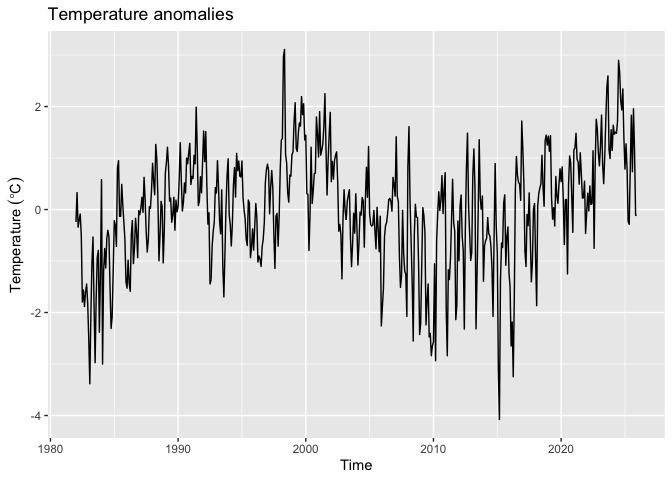
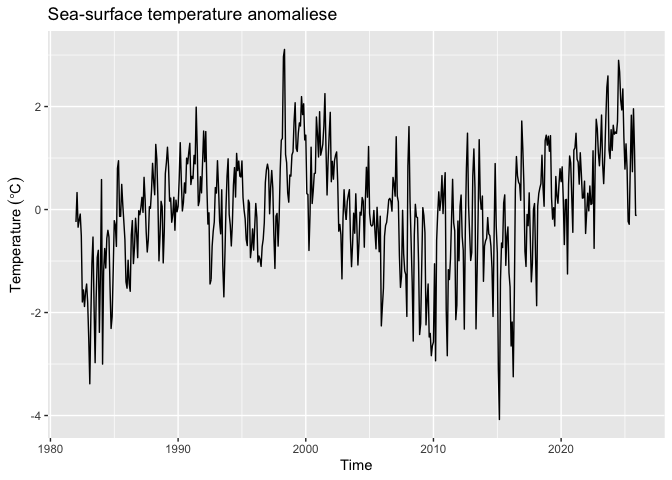
update

Changed region(s): [[0.0625, 0.0, 0.5, 0.0625]]

diff --git a/quick_tutorial.md b/quick_tutorial.md
@@ -23,6 +23,8 @@
   interval](#plotting-level-component-with-confidence-interval)
 - [Plotting drift component with confidence
   interval](#plotting-drift-component-with-confidence-interval)
+- [Handling original temperature
+  data](#handling-original-temperature-data)
 
 # Set ennvironment
 
@@ -172,19 +174,21 @@ plot(monthly_ibaraki_sst_plot)
 # Plotting time series of temperature deviation
 
 ``` r
-plot_temp_dev_obj <- ThermoSSM::plot_temp_dev(monthly_ibaraki_sst) 
+# Generate temperature anomalies
+monthly_ibaraki_sst_dev <- ThermoSSM::generate_temp_dev(monthly_ibaraki_sst)
+
+monthly_ibaraki_sst_dev_plot <- forecast::autoplot(monthly_ibaraki_sst_dev) +
+  labs(y = expression(Temperature~(degree*C)), 
+       x = "Time") +
+  ggtitle("Sea-surface temperature anomaliese")
+  
+ggsave("monthly_SST_dev_ibaraki.png",
+       plot=monthly_ibaraki_sst_dev_plot,
+       width=8,height=6)
+plot(monthly_ibaraki_sst_dev_plot)
 ```
 
 ![](quick_tutorial_files/figure-markdown_github/unnamed-chunk-8-1.png)
-
-``` r
-ggsave("monthly_SST_dev_ibaraki.png",
-       plot=plot_temp_dev_obj,
-       width=8,height=6)
-plot(plot_temp_dev_obj)
-```
-
-![](quick_tutorial_files/figure-markdown_github/unnamed-chunk-8-2.png)
 
 # Plotting seasonal pattern of monthly temperature
 
@@ -382,3 +386,129 @@ plot(plt_drift_ci)
 ```
 
 ![](quick_tutorial_files/figure-markdown_github/unnamed-chunk-15-1.png)
+
+# Handling original temperature data
+
+``` r
+##========================
+## Example 1
+# Monthly temperature data
+original_data <- data.frame(
+  Year=c(2000,2000,2000,2000,2000,2000,2000,2000,2000,2000,2000,2000),
+  Month=c(1,2,3,4,5,6,7,8,9,10,11,12),
+  Temp=   c(5.2, 6.1, 9.3, 13.5, 17.8, 21.0,24.3, 25.1, 22.0, 17.1, 11.2,7.0))
+
+head(original_data)
+```
+
+    ##   Year Month Temp
+    ## 1 2000     1  5.2
+    ## 2 2000     2  6.1
+    ## 3 2000     3  9.3
+    ## 4 2000     4 13.5
+    ## 5 2000     5 17.8
+    ## 6 2000     6 21.0
+
+``` r
+# Convert ts object
+original_ts <- ts(
+  matrix(original_data$Temp),
+  start = c(original_data$Year[1],original_data$Month[1]),
+  frequency = 12
+)
+
+# Important!!: Exe colnames() to add "Temp" name to ts object for the model 
+colnames(original_ts) <- c("Temp")
+
+frequency(original_ts)
+```
+
+    ## [1] 12
+
+``` r
+start(original_ts)
+```
+
+    ## [1] 2000    1
+
+``` r
+end(original_ts)
+```
+
+    ## [1] 2000   12
+
+``` r
+time(original_ts)
+```
+
+    ##           Jan      Feb      Mar      Apr      May      Jun      Jul      Aug
+    ## 2000 2000.000 2000.083 2000.167 2000.250 2000.333 2000.417 2000.500 2000.583
+    ##           Sep      Oct      Nov      Dec
+    ## 2000 2000.667 2000.750 2000.833 2000.917
+
+``` r
+original_ts
+```
+
+    ##       Jan  Feb  Mar  Apr  May  Jun  Jul  Aug  Sep  Oct  Nov  Dec
+    ## 2000  5.2  6.1  9.3 13.5 17.8 21.0 24.3 25.1 22.0 17.1 11.2  7.0
+
+``` r
+##========================
+## Example 2
+# loading and checking raw csv data
+input_csv <- "./data/test_data.csv"
+raw_csv <- read_csv(input_csv)
+head(raw_csv)
+```
+
+    ## # A tibble: 6 × 3
+    ##    Year Month  Temp
+    ##   <dbl> <dbl> <dbl>
+    ## 1  2002     1 -15.1
+    ## 2  2002     2 -13.3
+    ## 3  2002     3 -10.6
+    ## 4  2002     4  -0.8
+    ## 5  2002     5   3.5
+    ## 6  2002     6   6.2
+
+``` r
+# Load original csv file and then convert to monthly ts object 
+test_ts <- ThermoSSM::monthly_csv2ts(input_csv)
+head(test_ts)
+```
+
+    ##        Jan   Feb   Mar   Apr   May   Jun
+    ## 2002 -15.1 -13.3 -10.6  -0.8   3.5   6.2
+
+``` r
+frequency(test_ts)
+```
+
+    ## [1] 12
+
+``` r
+start(test_ts)
+```
+
+    ## [1] 2002    1
+
+``` r
+end(test_ts)
+```
+
+    ## [1] 2025   12
+
+``` r
+cycle(test_ts) %>% head()
+```
+
+    ##      Jan Feb Mar Apr May Jun
+    ## 2002   1   2   3   4   5   6
+
+``` r
+time(test_ts) %>% head()
+```
+
+    ##           Jan      Feb      Mar      Apr      May      Jun
+    ## 2002 2002.000 2002.083 2002.167 2002.250 2002.333 2002.417

diff --git a/README.md b/README.md
@@ -1,8 +1,8 @@
 # ThermoSSM
 
-- R package for linear Gaussian state-space analysis of temperature time series.  
-Main Parts of the implementation in this package were adapted from the supplementary Rcode
-provided by Baba (2024), available on GitHub: https://github.com/logics-of-blue/sea-temperature-trend-jogashima
+- R package for state-space analysis of temperature time series.  
+The implementation is based on linear Gaussian state-space models and makes use of Kalman filtering and smoothing.  
+Main parts of the implementation were adapted from the supplementary code provided in Baba et al. (2024), available on GitHub: https://github.com/logics-of-blue/sea-temperature-trend-jogashima
 
 
 
